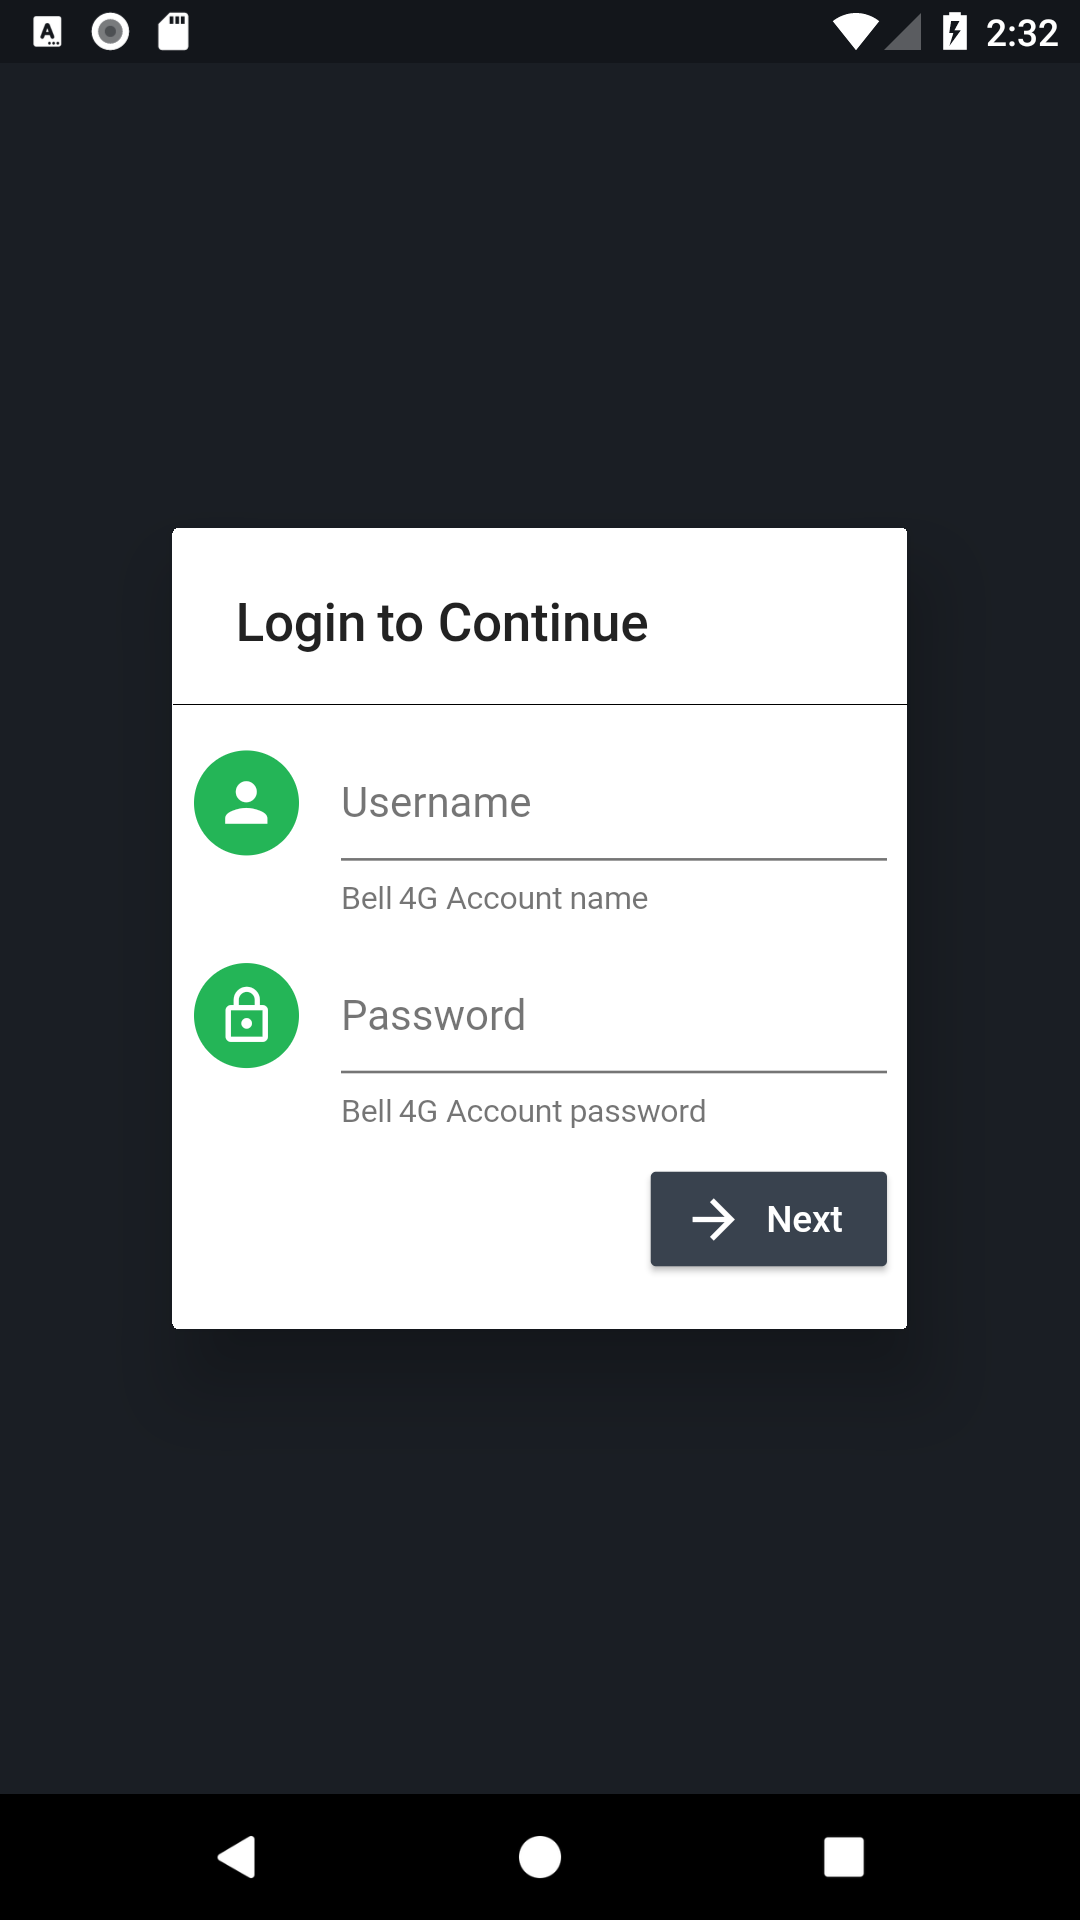
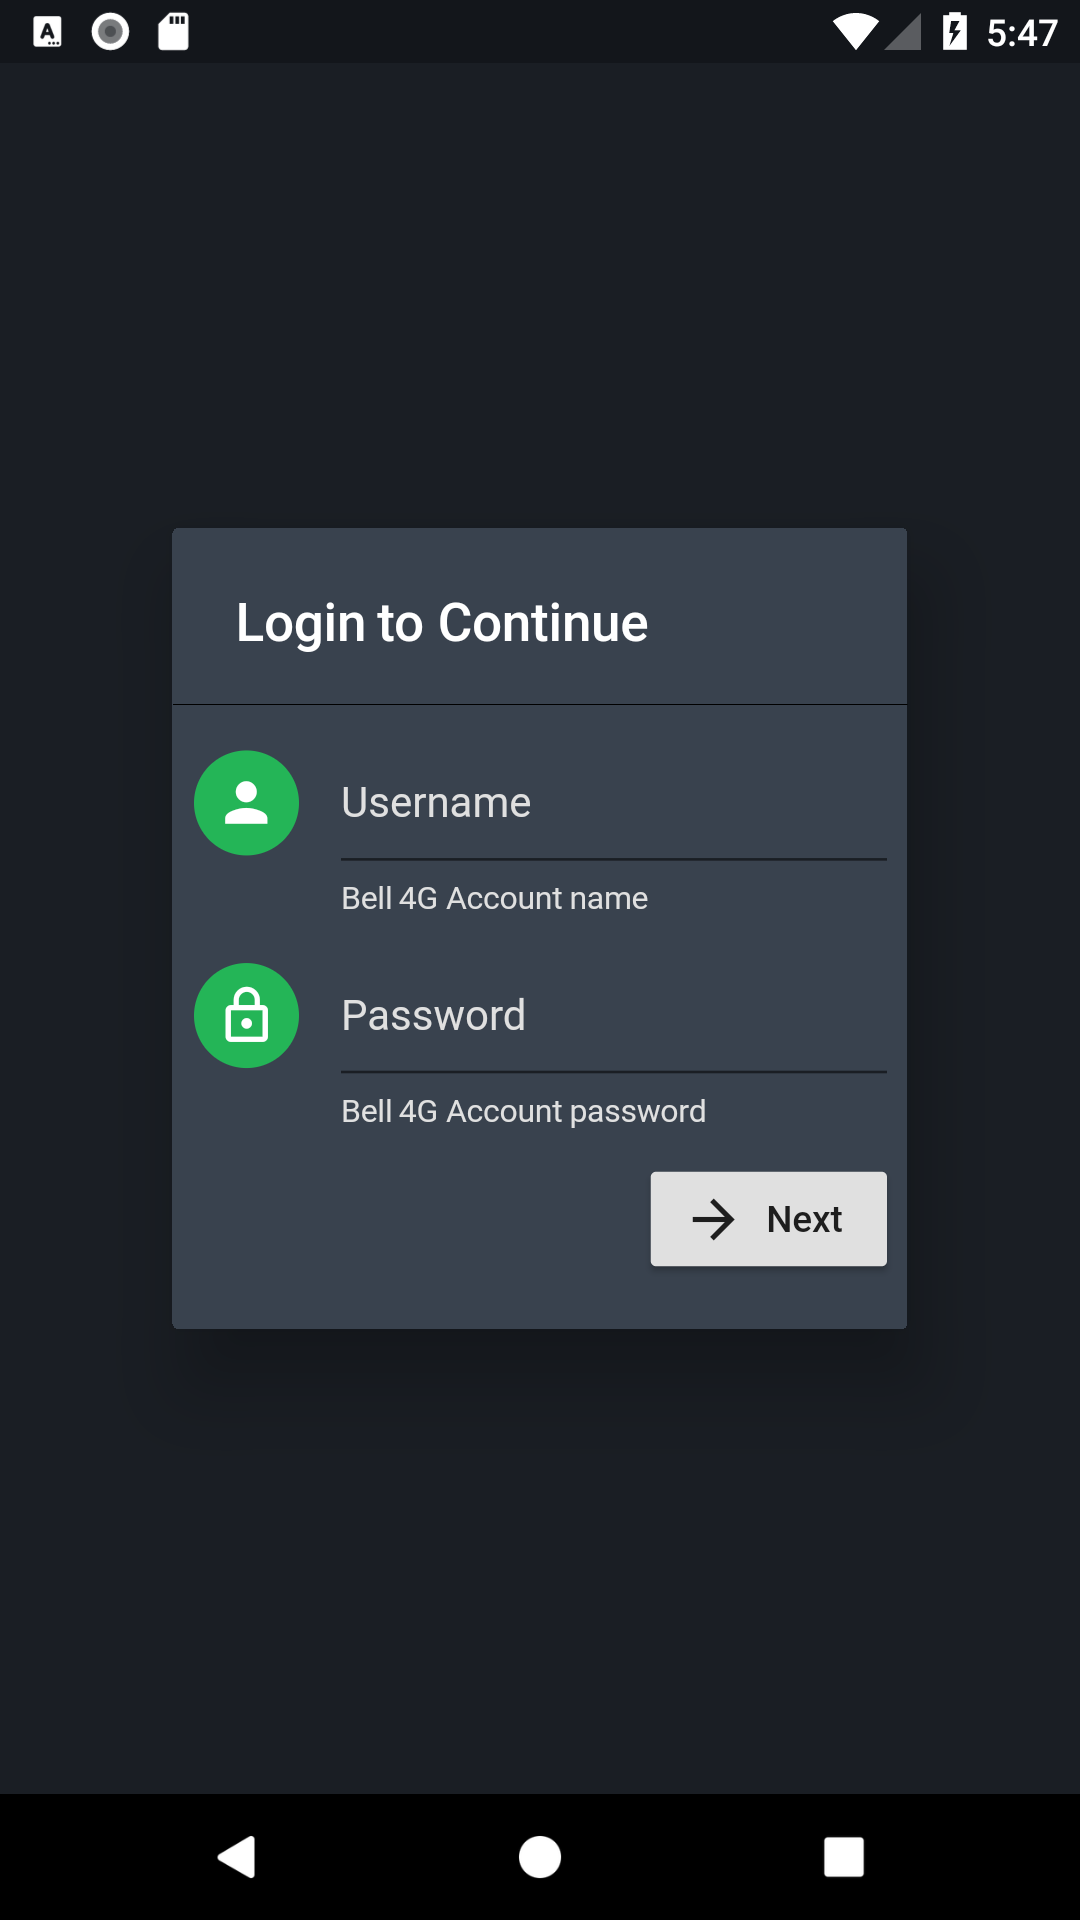
Updated readme

Changed region(s): [[0.1528, 0.25, 0.8556, 0.7188], [0.9167, 0.0, 0.9778, 0.0312]]

diff --git a/README.md b/README.md
@@ -2,17 +2,48 @@
 
 Simple app to show Bell 4G Data Usage. Shows a chart and other details parsed from [Bell 4G site](http://www.lankabell.com/lte/home.jsp). Does **NOT** use a `webview` in background. This makes connections more faster and takes low usage.
 
+## Themes
+
+Added theme support.
+
+Currently,
+
+- Dark Theme
+- Light Theme
+- Orange Theme
+- Bell 4G Theme
+
+are included. Selected theme is persistent and will load again when restarted.
+
 ## Screenshots
 
-### Login Page
+### Login Page(Dark Theme)
 
  ![Login Page](readme/login.png)
 
 ------
 
-### Info Page
+### Info Page(Dark Theme)
 
-![Info Page](readme/info.png)
+![Info Page](readme/info_dark.png)
+
+------
+
+### Info Page(Light Theme)
+
+![Info Page](readme/info_light.png)
+
+------
+
+### Info Page(Orange Theme)
+
+![Info Page](readme/info_orange.png)
+
+------
+
+### Info Page(Bell 4G Theme)
+
+![Info Page](readme/info_bell4g.png)
 
 ------
 
@@ -23,3 +54,5 @@ Problem with Bell 4G site is that it discards session after some time. So stayin
 ## Login Information
 
 Login name and password will be taken using a login screen and will be saved in a secure storage location. Confirming login details will be done by logging in and then going to another page(in this case `usage.jsp`) and finding a certain string(`USAGE`) there.
+
+> Author: kdsuneraavinash
